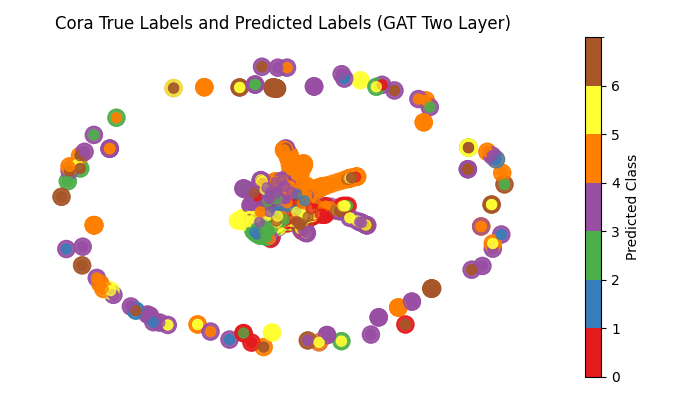
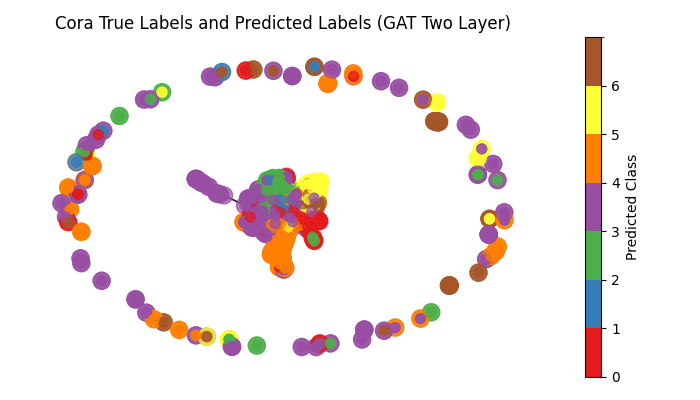
best gat config

Changed region(s): [[0.06, 0.12, 0.75, 0.9], [0.27, 0.33, 0.54, 0.72]]

diff --git a/training/GAT_training.py b/training/GAT_training.py
@@ -3,17 +3,19 @@ from utils import plot_acc, test_model
 import utils.plot_loss as plot_loss
 import torch
 
-HIDDEN_UNITS = 64
-LEARNING_RATE = 0.01
+HIDDEN_UNITS_TWO_LAYER = 64
+HIDDEN_UNITS_THREE_LAYER = 128
+LEARNING_RATE_TWO_LAYER = 0.001
+LEARNING_RATE_THREE_LAYER = 0.001
 
 def GAT_two_layer_training(data, num_classes, epochs=200, dataset_name=''):
     
     # instantiate the model
     # Current implementation uses HIDDEN_UNITS hidden channels, but this can be adjusted as needed.
-    model = GAT.GAT_Two_Layer(data.num_features, HIDDEN_UNITS, num_classes)
+    model = GAT.GAT_Two_Layer(data.num_features, HIDDEN_UNITS_TWO_LAYER, num_classes)
 
     # use an optimizer (e.g., Adam) to update the model parameters during training.
-    optimizer = torch.optim.Adam(model.parameters(), lr=LEARNING_RATE, weight_decay=5e-4)
+    optimizer = torch.optim.Adam(model.parameters(), lr=LEARNING_RATE_TWO_LAYER, weight_decay=5e-4)
 
     model.train() # Set the model to training mode.
 
@@ -60,10 +62,10 @@ def GAT_two_layer_training(data, num_classes, epochs=200, dataset_name=''):
 def GAT_three_layer_training(data, num_classes, epochs=200, dataset_name=''):
     # instantiate the model
     # Current implementation uses HIDDEN_UNITS hidden channels for the first two layers, and the final layer outputs the number of classes.
-    model = GAT.GAT_Three_Layer(data.num_features, HIDDEN_UNITS, num_classes)
+    model = GAT.GAT_Three_Layer(data.num_features, HIDDEN_UNITS_THREE_LAYER, num_classes)
 
     # use an optimizer (e.g., Adam) to update the model parameters during training.
-    optimizer = torch.optim.Adam(model.parameters(), lr=LEARNING_RATE, weight_decay=5e-4)
+    optimizer = torch.optim.Adam(model.parameters(), lr=LEARNING_RATE_THREE_LAYER, weight_decay=5e-4)
 
     model.train() # Set the model to training mode.
 
